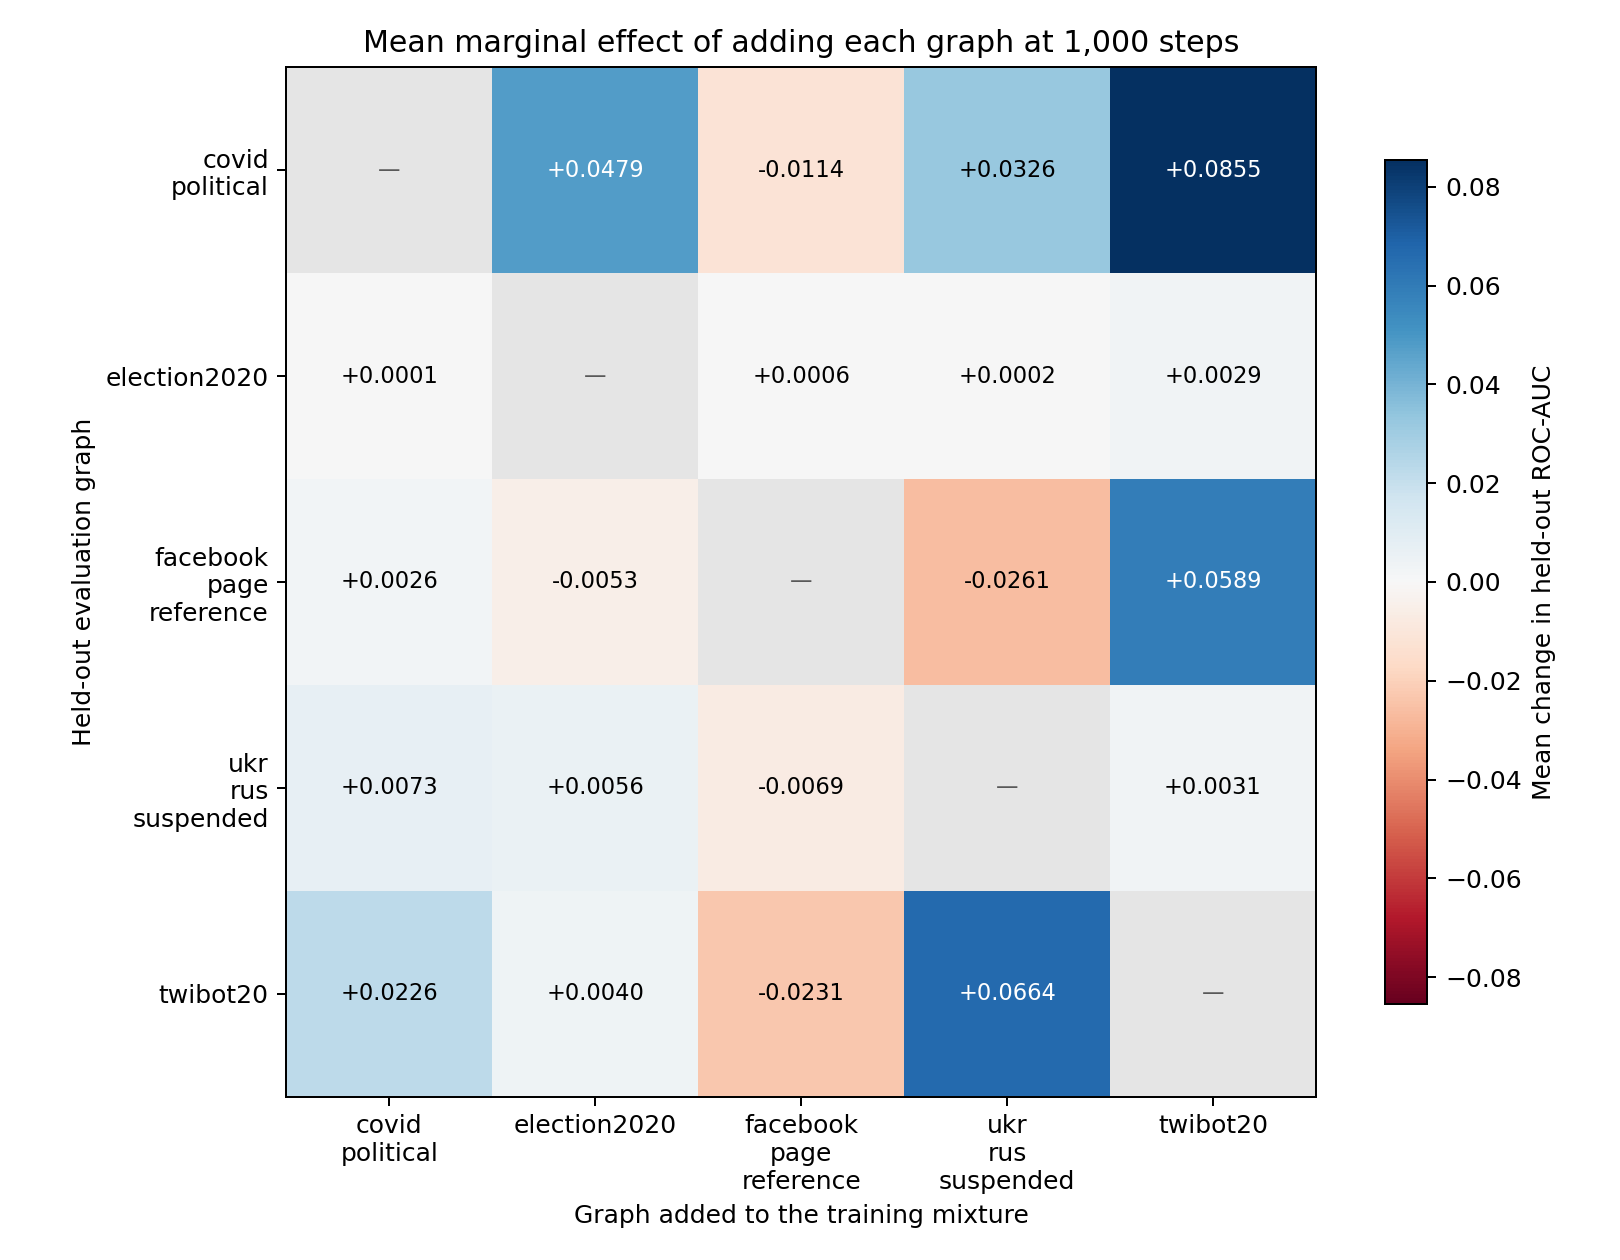
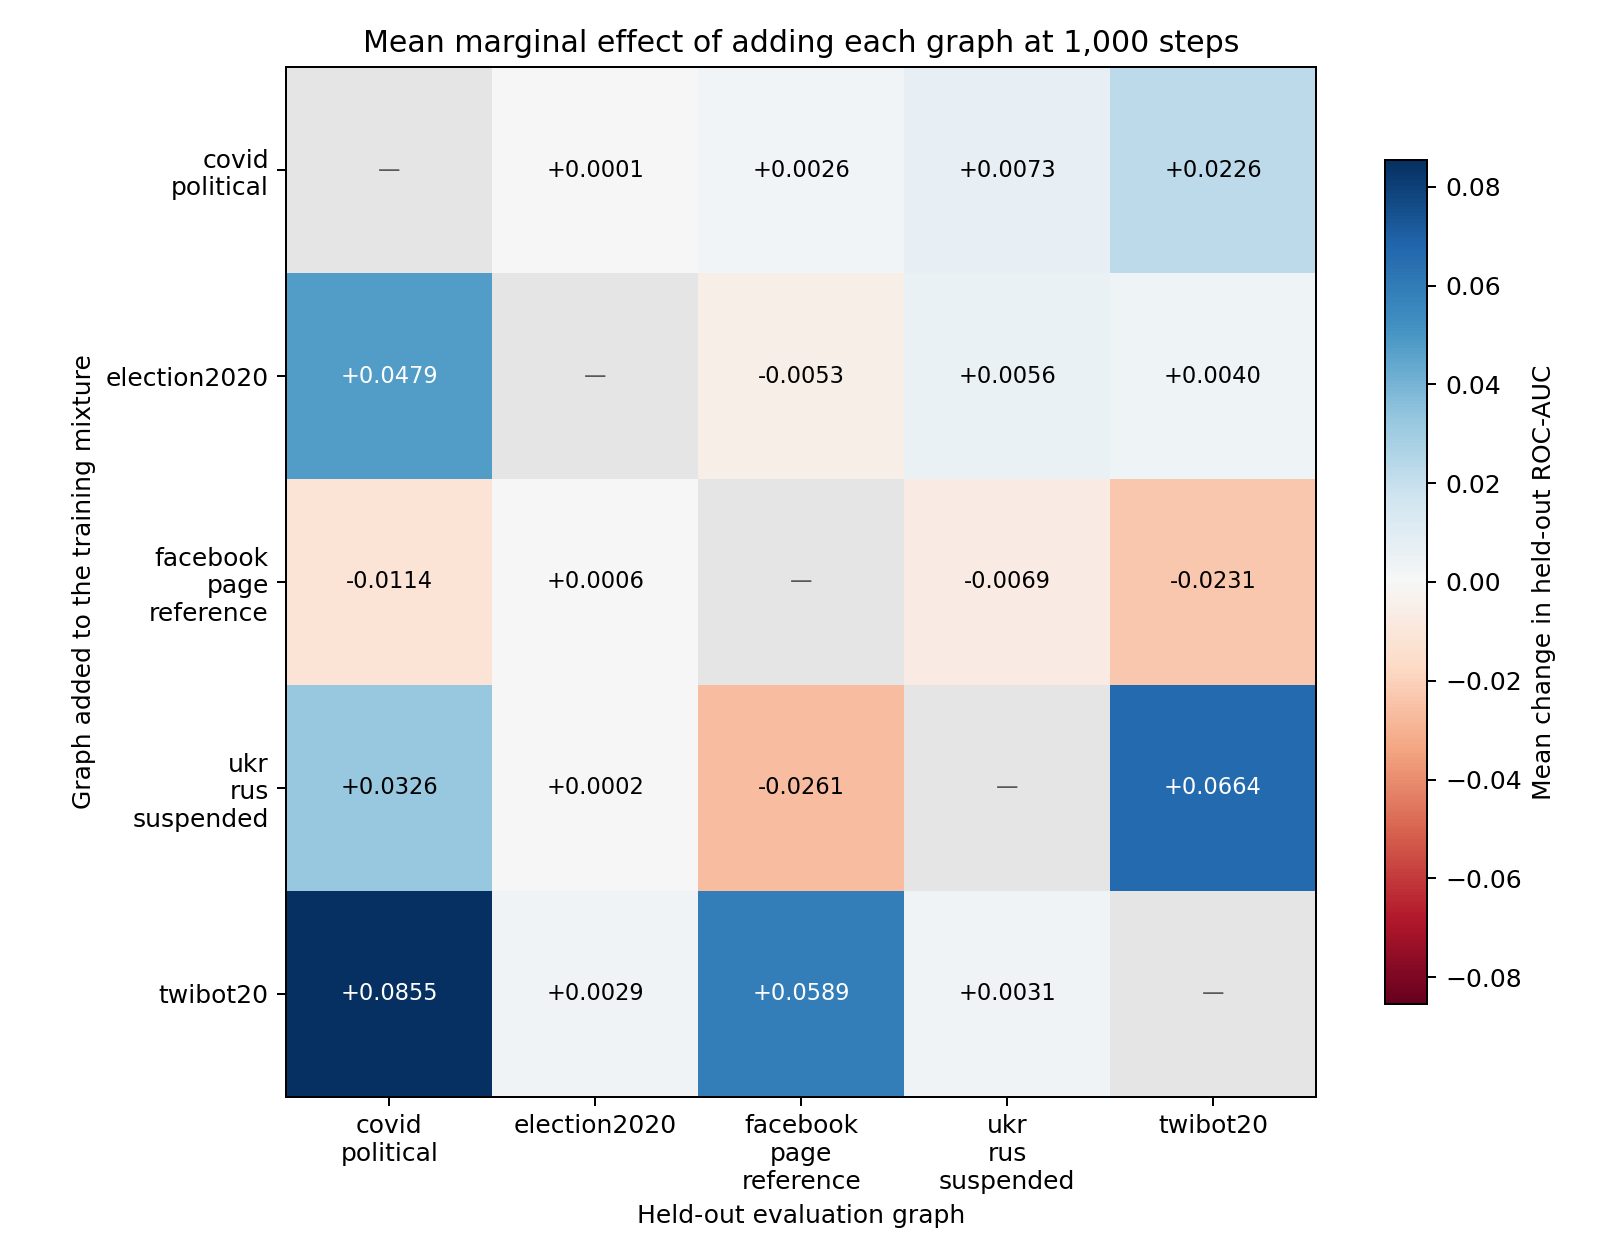
analysis: orient donor heatmap by added graph

diff --git a/scripts/experiments/analysis/transfer/ablations/prodigy_nm/source_diversity/labeled_mixture_diversity_cls500/analyze_trajectory.py b/scripts/experiments/analysis/transfer/ablations/prodigy_nm/source_diversity/labeled_mixture_diversity_cls500/analyze_trajectory.py
@@ -361,7 +361,7 @@ def main() -> None:
     target_index = {target: index for index, target in enumerate(TARGETS)}
     for row in final_marginal_means:
         effect_matrix[
-            target_index[row["target"]], target_index[row["added_donor"]]
+            target_index[row["added_donor"]], target_index[row["target"]]
         ] = row["mean_auc_delta"]
     max_abs = float(np.nanmax(np.abs(effect_matrix)))
     cmap = plt.get_cmap("RdBu").copy()
@@ -372,8 +372,8 @@ def main() -> None:
     labels = [target.replace("_", "\n") for target in TARGETS]
     axis.set_xticks(range(len(TARGETS)), labels=labels)
     axis.set_yticks(range(len(TARGETS)), labels=labels)
-    axis.set_xlabel("Graph added to the training mixture")
-    axis.set_ylabel("Held-out evaluation graph")
+    axis.set_xlabel("Held-out evaluation graph")
+    axis.set_ylabel("Graph added to the training mixture")
     axis.set_title("Mean marginal effect of adding each graph at 1,000 steps")
     for row_index in range(len(TARGETS)):
         for column_index in range(len(TARGETS)):

diff --git a/scripts/experiments/analysis/transfer/ablations/prodigy_nm/source_diversity/labeled_mixture_diversity_cls500/README.md b/scripts/experiments/analysis/transfer/ablations/prodigy_nm/source_diversity/labeled_mixture_diversity_cls500/README.md
@@ -23,7 +23,7 @@ mixtures, while `mixture_diversity_trajectory_averaged_1000.png` averages those 
 mixture size in macro and per-target panels.
 `marginal_donor_effect_boxplot_1000.png` shows the 28 matched ROC-AUC changes from adding
 each graph to otherwise identical nonempty donor subsets across the four other targets.
-`marginal_donor_effect_heatmap_1000.png` gives the corresponding target-by-added-graph
+`marginal_donor_effect_heatmap_1000.png` gives the corresponding added-graph-by-target
 matrix of mean matched effects, with seven subset additions averaged in each cell.
 
 ```bash
